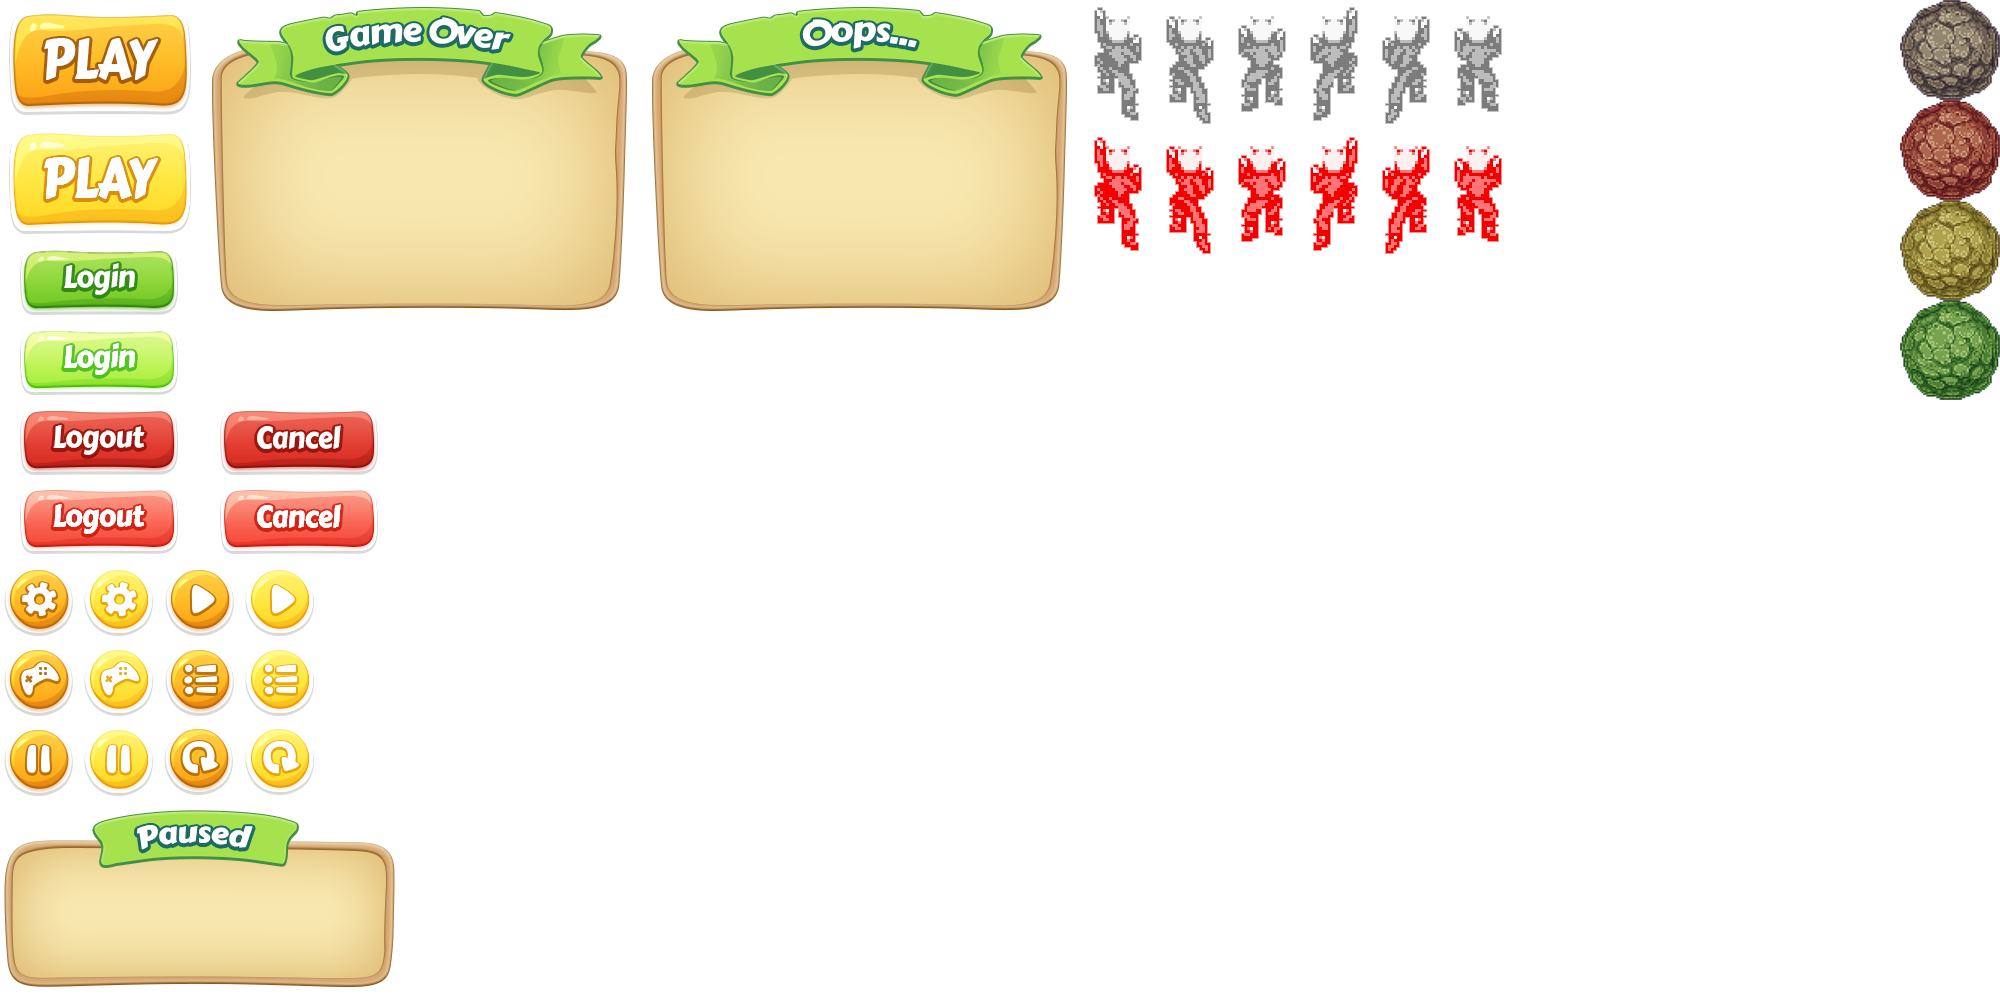
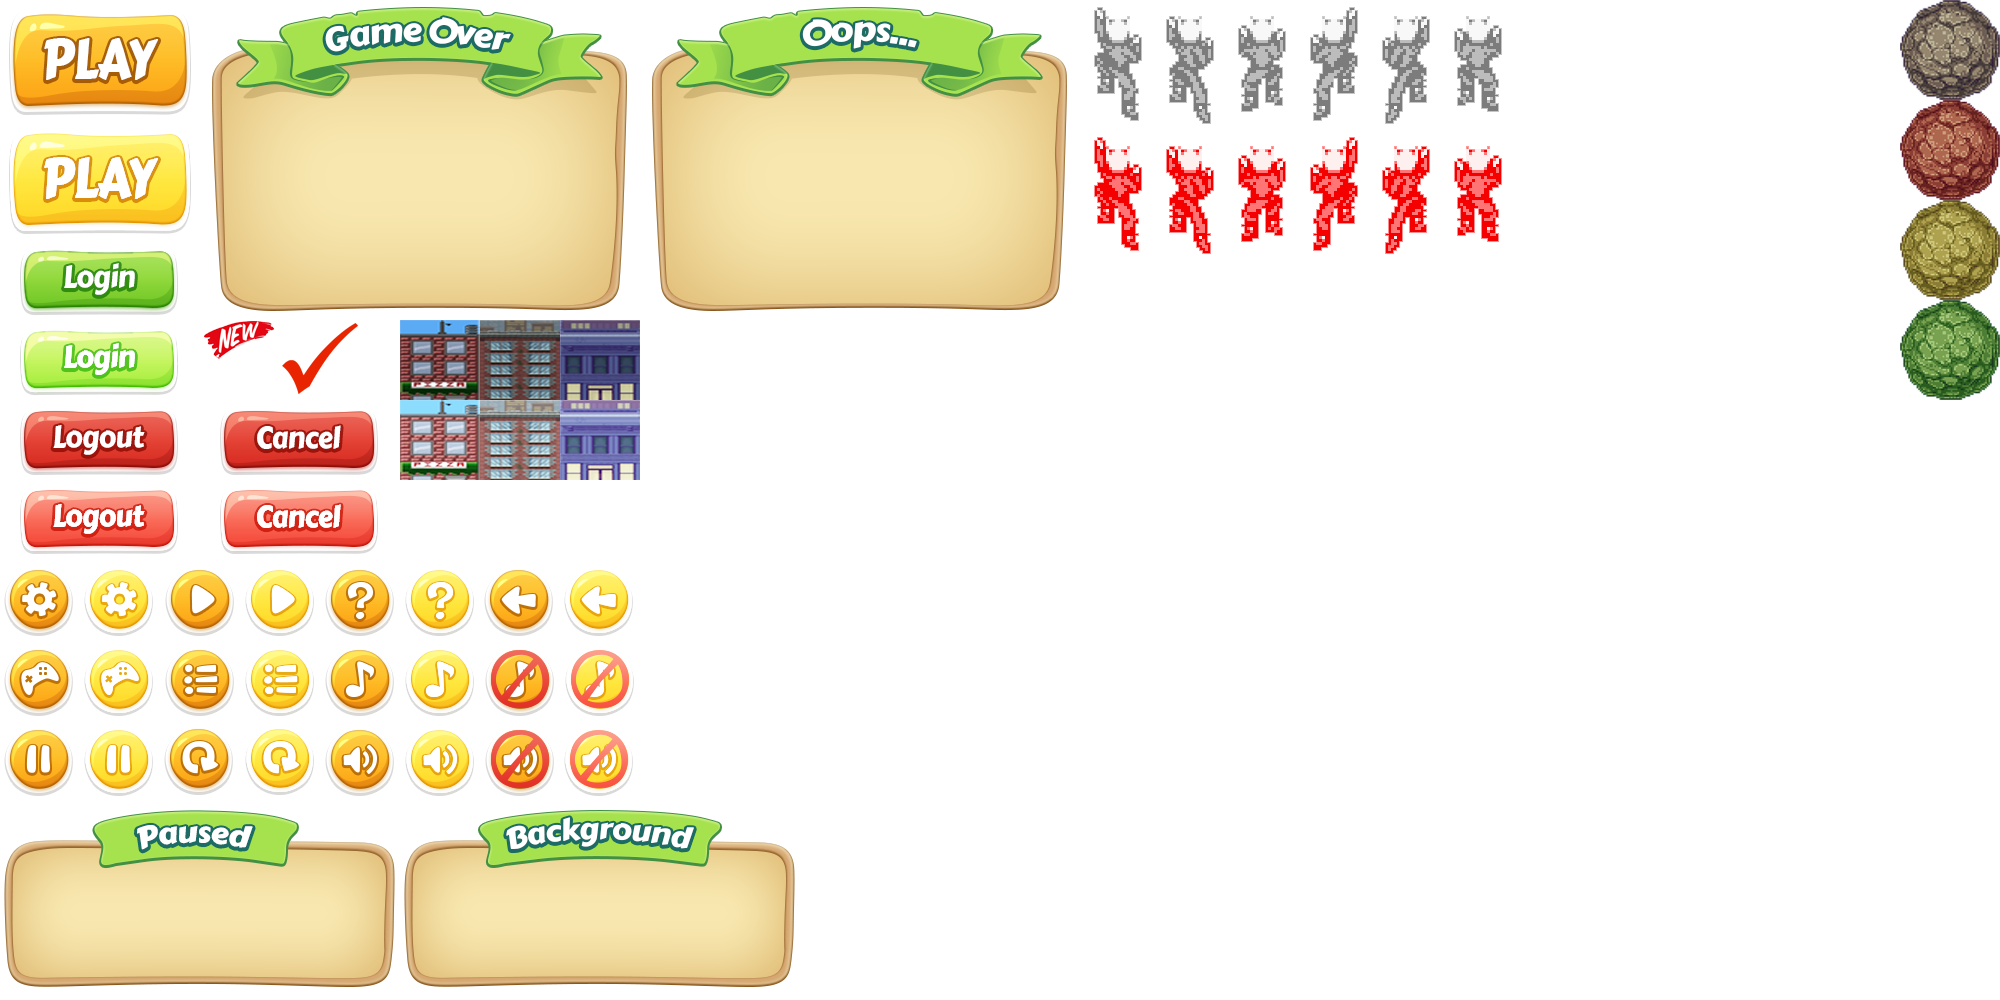
Added a simple settings menu

Changed region(s): [[0.155, 0.558, 0.403, 0.992], [0.093, 0.31, 0.341, 0.496]]

diff --git a/core/src/com/oniz/Screens/StartScreen.java b/core/src/com/oniz/Screens/StartScreen.java
@@ -23,29 +23,34 @@ import com.oniz.UI.SimpleButton;
 
 public class StartScreen implements Screen {
 
+    public static final int BACKGROUND1 = 1;
+    public static final int BACKGROUND2 = 2;
+    public static final int BACKGROUND3 = 3;
+
     public ZGame zGame;
 
     private Stage stage;
     private Skin skin;
-    private TextureRegion cloudsBackground;
+    private TextureRegion cloudsBackground, backgroundMenu, checkMark;
     private SpriteBatch batcher;
     private OrthographicCamera cam;
 
-    private SimpleButton quickGameBtn, loginBtn, logoutBtn, settingsBtn, singlePlayerBtn;
+    private SimpleButton quickGameBtn, loginBtn, logoutBtn, settingsBtn, singlePlayerBtn, backBtn, helpBtn, soundBtn, soundMutedBtn, musicBtn, musicMutedBtn, background1Btn, background2Btn, background3Btn;
+    private boolean backgroundMenuToggle = false;
+    private boolean soundToggle = true;
+    private boolean musicToggle = true;
+    private int backgroundOption = BACKGROUND1;
 
     public StartScreen(final ZGame zGame) {
         this.zGame = zGame;
 
         loadAssets();
         setup();
-
     }
 
     public void setup() {
         //catch back button
         Gdx.input.setCatchBackKey(true);
-
-        stage = new Stage(new FitViewport(450, 800));
 
         // Viewport - Aspect Radio
         cam = new OrthographicCamera();
@@ -53,6 +58,8 @@ public class StartScreen implements Screen {
 
         batcher = new SpriteBatch();
         batcher.setProjectionMatrix(cam.combined);
+
+        stage = new Stage(new FitViewport(450, 800), batcher);
 
         // buttons
         quickGameBtn = new SimpleButton(125, 400, 200, 120, AssetLoader.getInstance().sprites.get("mainPlayBtnUp"), AssetLoader.getInstance().sprites.get("mainPlayBtnDown"));
@@ -83,8 +90,30 @@ public class StartScreen implements Screen {
         settingsBtn.addListener(new ClickListener() {
             @Override
             public void clicked(InputEvent event, float x, float y) {
-                //settings action
-                //sendMessage();
+                // disable startScreen buttons
+                quickGameBtn.setVisible(false);
+                loginBtn.setVisible(false);
+                logoutBtn.setVisible(false);
+                settingsBtn.setVisible(false);
+                helpBtn.setVisible(false);
+                singlePlayerBtn.setVisible(false);
+
+                // enable settingScreen buttons
+                backBtn.setVisible(true);
+                if (soundToggle) {
+                    soundBtn.setVisible(true);
+                } else {
+                    soundMutedBtn.setVisible(true);
+                }
+                if (musicToggle) {
+                    musicBtn.setVisible(true);
+                } else {
+                    musicMutedBtn.setVisible(true);
+                }
+                backgroundMenuToggle = true;
+                background1Btn.setVisible(true);
+                background2Btn.setVisible(true);
+                background3Btn.setVisible(true);
             }
         });
 
@@ -97,11 +126,133 @@ public class StartScreen implements Screen {
             }
         });
 
+        backBtn = new SimpleButton(10, 800-90, 80, 80, AssetLoader.getInstance().sprites.get("backBtnUp"), AssetLoader.getInstance().sprites.get("backBtnDown"));
+        backBtn.addListener(new ClickListener() {
+            @Override
+            public void clicked(InputEvent event, float x, float y) {
+                // disable settingScreen buttons
+                backBtn.setVisible(false);
+                soundBtn.setVisible(false);
+                soundMutedBtn.setVisible(false);
+                musicBtn.setVisible(false);
+                musicMutedBtn.setVisible(false);
+                backgroundMenuToggle = false;
+                background1Btn.setVisible(false);
+                background2Btn.setVisible(false);
+                background3Btn.setVisible(false);
+
+                // enable startScreen buttons
+                quickGameBtn.setVisible(true);
+                if (zGame.playServices.isSignedIn()) {
+                    logoutBtn.setVisible(true);
+                } else {
+                    loginBtn.setVisible(true);
+                }
+                settingsBtn.setVisible(true);
+                helpBtn.setVisible(true);
+                singlePlayerBtn.setVisible(true);
+            }
+        });
+
+        helpBtn = new SimpleButton(100, 10, 80, 80, AssetLoader.getInstance().sprites.get("helpBtnUp"), AssetLoader.getInstance().sprites.get("helpBtnDown"));
+        helpBtn.addListener(new ClickListener() {
+            @Override
+            public void clicked(InputEvent event, float x, float y) {
+                // TODO: help screen
+            }
+        });
+
+        soundBtn = new SimpleButton(135, 10, 80, 80, AssetLoader.getInstance().sprites.get("soundBtnUp"), AssetLoader.getInstance().sprites.get("soundBtnDown"));
+        soundBtn.addListener(new ClickListener() {
+            @Override
+            public void clicked(InputEvent event, float x, float y) {
+                soundToggle = false;
+                soundBtn.setVisible(false);
+                soundMutedBtn.setVisible(true);
+                // TODO: toggle sound
+            }
+        });
+
+        soundMutedBtn = new SimpleButton(135, 10, 80, 80, AssetLoader.getInstance().sprites.get("soundMutedBtnUp"), AssetLoader.getInstance().sprites.get("soundMutedBtnDown"));
+        soundMutedBtn.addListener(new ClickListener() {
+            @Override
+            public void clicked(InputEvent event, float x, float y) {
+                soundToggle = true;
+                soundBtn.setVisible(true);
+                soundMutedBtn.setVisible(false);
+                // TODO: toggle sound
+            }
+        });
+
+        musicBtn = new SimpleButton(235, 10, 80, 80, AssetLoader.getInstance().sprites.get("musicBtnUp"), AssetLoader.getInstance().sprites.get("musicBtnDown"));
+        musicBtn.addListener(new ClickListener() {
+            @Override
+            public void clicked(InputEvent event, float x, float y) {
+                musicToggle = false;
+                musicBtn.setVisible(false);
+                musicMutedBtn.setVisible(true);
+                // TODO: toggle music
+            }
+        });
+
+        musicMutedBtn = new SimpleButton(235, 10, 80, 80, AssetLoader.getInstance().sprites.get("musicMutedBtnUp"), AssetLoader.getInstance().sprites.get("musicMutedBtnDown"));
+        musicMutedBtn.addListener(new ClickListener() {
+            @Override
+            public void clicked(InputEvent event, float x, float y) {
+                musicToggle = true;
+                musicBtn.setVisible(true);
+                musicMutedBtn.setVisible(false);
+                // TODO: toggle music
+            }
+        });
+
+        background1Btn = new SimpleButton(85, 390, 80, 80, AssetLoader.getInstance().sprites.get("background1BtnUp"), AssetLoader.getInstance().sprites.get("background1BtnDown"));
+        background1Btn.addListener(new ClickListener() {
+            @Override
+            public void clicked(InputEvent event, float x, float y) {
+                backgroundOption = BACKGROUND1;
+            }
+        });
+
+        background2Btn = new SimpleButton(185, 390, 80, 80, AssetLoader.getInstance().sprites.get("background2BtnUp"), AssetLoader.getInstance().sprites.get("background2BtnDown"));
+        background2Btn.addListener(new ClickListener() {
+            @Override
+            public void clicked(InputEvent event, float x, float y) {
+                backgroundOption = BACKGROUND2;
+            }
+        });
+
+        background3Btn = new SimpleButton(285, 390, 80, 80, AssetLoader.getInstance().sprites.get("background3BtnUp"), AssetLoader.getInstance().sprites.get("background3BtnDown"));
+        background3Btn.addListener(new ClickListener() {
+            @Override
+            public void clicked(InputEvent event, float x, float y) {
+                backgroundOption = BACKGROUND3;
+            }
+        });
+
         stage.addActor(quickGameBtn);
         stage.addActor(loginBtn);
         stage.addActor(logoutBtn);
         stage.addActor(settingsBtn);
         stage.addActor(singlePlayerBtn);
+        stage.addActor(backBtn);
+        stage.addActor(helpBtn);
+        stage.addActor(soundBtn);
+        stage.addActor(soundMutedBtn);
+        stage.addActor(musicBtn);
+        stage.addActor(musicMutedBtn);
+        stage.addActor(background1Btn);
+        stage.addActor(background2Btn);
+        stage.addActor(background3Btn);
+
+        soundBtn.setVisible(false);
+        soundMutedBtn.setVisible(false);
+        musicBtn.setVisible(false);
+        musicMutedBtn.setVisible(false);
+        backBtn.setVisible(false);
+        background1Btn.setVisible(false);
+        background2Btn.setVisible(false);
+        background3Btn.setVisible(false);
 
         // show "login" button when not signed in; show "logout" button when signed in
         if (zGame.playServices.isSignedIn()) {
@@ -121,6 +272,8 @@ public class StartScreen implements Screen {
         AssetLoader.getInstance();
         skin = AssetLoader.getInstance().skin;
         cloudsBackground =  AssetLoader.getInstance().sprites.get("cloudsBackground");
+        backgroundMenu = AssetLoader.getInstance().sprites.get("backgroundMenu");
+        checkMark = AssetLoader.getInstance().sprites.get("checkMark");
     }
 
     // Google Services Methods
@@ -168,7 +321,23 @@ public class StartScreen implements Screen {
         batcher.draw(cloudsBackground, 0, 0, 450, 800);
 
         batcher.enableBlending();
+        if (backgroundMenuToggle) {
+            batcher.draw(backgroundMenu, 25, 350, 400, 200);
+        }
+        batcher.end();
+
         stage.draw();
+
+        batcher.begin();
+        if (backgroundMenuToggle) {
+            if (backgroundOption == BACKGROUND1) {
+                batcher.draw(checkMark, 75, 440, 40, 40);
+            } else if (backgroundOption == BACKGROUND2) {
+                batcher.draw(checkMark, 175, 440, 40, 40);
+            } else if (backgroundOption == BACKGROUND3) {
+                batcher.draw(checkMark, 275, 440, 40, 40);
+            }
+        }
         batcher.end();
     }
 
@@ -196,5 +365,9 @@ public class StartScreen implements Screen {
     public void dispose() {
         AssetLoader.getInstance().dispose();
         Gdx.app.log("LIFECYCLE", "DISPOSE");
+    }
+
+    public int getBackgroundOption() {
+        return backgroundOption;
     }
 }

diff --git a/core/src/com/oniz/Game/AssetLoader.java b/core/src/com/oniz/Game/AssetLoader.java
@@ -9,8 +9,6 @@ import com.badlogic.gdx.graphics.g2d.BitmapFont;
 import com.badlogic.gdx.graphics.g2d.TextureRegion;
 import com.badlogic.gdx.scenes.scene2d.ui.Skin;
 import com.oniz.Mobs.GestureRock;
-
-import java.util.ArrayList;
 import java.util.Hashtable;
 
 /**
@@ -95,8 +93,30 @@ public final class AssetLoader {
         sprites.put("menuBtnDown", new TextureRegion(textures.get("menuTexture"), 240, 640, 80, 80));
         sprites.put("restartBtnUp", new TextureRegion(textures.get("menuTexture"), 160, 720, 80, 80));
         sprites.put("restartBtnDown", new TextureRegion(textures.get("menuTexture"), 240, 720, 80, 80));
+        sprites.put("helpBtnUp", new TextureRegion(textures.get("menuTexture"), 320, 560, 80, 80));
+        sprites.put("helpBtnDown", new TextureRegion(textures.get("menuTexture"), 400, 560, 80, 80));
+        sprites.put("musicBtnUp", new TextureRegion(textures.get("menuTexture"), 320, 640, 80, 80));
+        sprites.put("musicBtnDown", new TextureRegion(textures.get("menuTexture"), 400, 640, 80, 80));
+        sprites.put("soundBtnUp", new TextureRegion(textures.get("menuTexture"), 320, 720, 80, 80));
+        sprites.put("soundBtnDown", new TextureRegion(textures.get("menuTexture"), 400, 720, 80, 80));
+        sprites.put("backBtnUp", new TextureRegion(textures.get("menuTexture"), 480, 560, 80, 80));
+        sprites.put("backBtnDown", new TextureRegion(textures.get("menuTexture"), 560, 560, 80, 80));
+        sprites.put("musicMutedBtnUp", new TextureRegion(textures.get("menuTexture"), 480, 640, 80, 80));
+        sprites.put("musicMutedBtnDown", new TextureRegion(textures.get("menuTexture"), 560, 640, 80, 80));
+        sprites.put("soundMutedBtnUp", new TextureRegion(textures.get("menuTexture"), 480, 720, 80, 80));
+        sprites.put("soundMutedBtnDown", new TextureRegion(textures.get("menuTexture"), 560, 720, 80, 80));
+        sprites.put("newMark", new TextureRegion(textures.get("menuTexture"), 200, 320, 80, 40));
+        sprites.put("checkMark", new TextureRegion(textures.get("menuTexture"), 280, 320, 80, 80));
+        sprites.put("background1BtnUp", new TextureRegion(textures.get("menuTexture"), 400, 320, 80, 80));
+        sprites.put("background1BtnDown", new TextureRegion(textures.get("menuTexture"), 400, 400, 80, 80));
+        sprites.put("background2BtnUp", new TextureRegion(textures.get("menuTexture"), 480, 320, 80, 80));
+        sprites.put("background2BtnDown", new TextureRegion(textures.get("menuTexture"), 480, 400, 80, 80));
+        sprites.put("background3BtnUp", new TextureRegion(textures.get("menuTexture"), 560, 320, 80, 80));
+        sprites.put("background3BtnDown", new TextureRegion(textures.get("menuTexture"), 560, 400, 80, 80));
         sprites.put("pauseMenu", new TextureRegion(textures.get("menuTexture"), 0, 800, 400, 200));
+        sprites.put("backgroundMenu", new TextureRegion(textures.get("menuTexture"), 400, 800, 400, 200));
         sprites.put("gameOverMenu", new TextureRegion(textures.get("menuTexture"), 200, 0, 440, 320));
+        sprites.put("oopsMenu", new TextureRegion(textures.get("menuTexture"), 640, 0, 440, 320));
 
         // gesture stages
         sprites.put("brownRock", new TextureRegion(textures.get("menuTexture"), 1900, 0, 100, 100));
@@ -129,25 +149,6 @@ public final class AssetLoader {
         gestureHints.put(GestureRock.GestureType.INVERTED_Z_SHAPE, sprites.get("invertedZshape"));
         gestureHints.put(GestureRock.GestureType.GAMMA, sprites.get("gamma"));
         gestureHints.put(GestureRock.GestureType.SIGMA, sprites.get("sigma"));
-
-
-        // play, pause, restart buttons (obsolete)
-        textures.put("pauseUp", new Texture(Gdx.files.internal("lineLight/lineLight12.png")));
-        textures.put("pauseDown", new Texture(Gdx.files.internal("shadedDark/shadedDark14.png")));
-        textures.put("playUp", new Texture(Gdx.files.internal("lineLight/lineLight14.png")));
-        textures.put("playDown", new Texture(Gdx.files.internal("shadedDark/shadedDark16.png")));
-        textures.put("restartUp", new Texture(Gdx.files.internal("lineLight/lineLight10.png")));
-        textures.put("restartDown", new Texture(Gdx.files.internal("shadedDark/shadedDark12.png")));
-
-        // temporary buttons: A, B, X, Y
-        textures.put("buttonAUp", new Texture(Gdx.files.internal("lineLight/lineLight34.png")));
-        textures.put("buttonADown", new Texture(Gdx.files.internal("shadedDark/shadedDark36.png")));
-        textures.put("buttonBUp", new Texture(Gdx.files.internal("lineLight/lineLight35.png")));
-        textures.put("buttonBDown", new Texture(Gdx.files.internal("shadedDark/shadedDark37.png")));
-        textures.put("buttonXUp", new Texture(Gdx.files.internal("lineLight/lineLight36.png")));
-        textures.put("buttonXDown", new Texture(Gdx.files.internal("shadedDark/shadedDark38.png")));
-        textures.put("buttonYUp", new Texture(Gdx.files.internal("lineLight/lineLight37.png")));
-        textures.put("buttonYDown", new Texture(Gdx.files.internal("shadedDark/shadedDark39.png")));
 
         // sprites of zombie climbing
         sprites.put("zombieClimb1", new TextureRegion(textures.get("menuTexture"), 1087, 0, 60, 130));
@@ -230,9 +231,9 @@ public final class AssetLoader {
 
         // background
         textures.put("backgrounds", new Texture(Gdx.files.internal("data/backgrounds.png")));
-        sprites.put("pizzaBuilding", new TextureRegion(textures.get("backgrounds"), 0, 0, 450, 800));
-        sprites.put("tallBuilding", new TextureRegion(textures.get("backgrounds"), 450, 0, 450, 800));
-        sprites.put("nightBuilding", new TextureRegion(textures.get("backgrounds"), 900, 0, 450, 800));
+        sprites.put("background1", new TextureRegion(textures.get("backgrounds"), 0, 0, 450, 800));
+        sprites.put("background2", new TextureRegion(textures.get("backgrounds"), 450, 0, 450, 800));
+        sprites.put("background3", new TextureRegion(textures.get("backgrounds"), 900, 0, 450, 800));
         sprites.put("cloudsBackground", new TextureRegion(textures.get("backgrounds"), 1350, 0, 450, 800));
         sprites.put("backgroundTint", new TextureRegion(textures.get("backgrounds"), 1800, 0, 450, 800));
 

diff --git a/core/src/com/oniz/Screens/MatchMakingScreen.java b/core/src/com/oniz/Screens/MatchMakingScreen.java
@@ -64,7 +64,7 @@ public class MatchMakingScreen implements Screen{
         batcher = new SpriteBatch();
         batcher.setProjectionMatrix(cam.combined);
 
-        cancelBtn = new SimpleButton(125, 280, 200, 80, AssetLoader.getInstance().sprites.get("logoutBtnUp"), AssetLoader.getInstance().sprites.get("logoutBtnDown"));
+        cancelBtn = new SimpleButton(125, 250, 200, 80, AssetLoader.getInstance().sprites.get("logoutBtnUp"), AssetLoader.getInstance().sprites.get("logoutBtnDown"));
         cancelBtn.addListener(new ClickListener() {
             @Override
             public void clicked(InputEvent event, float x, float y) {

diff --git a/core/src/com/oniz/Game/GameRenderer.java b/core/src/com/oniz/Game/GameRenderer.java
@@ -125,7 +125,7 @@ public class GameRenderer {
     }
 
     private void initAssets() {
-        background = AssetLoader.getInstance().sprites.get("pizzaBuilding");
+        background = AssetLoader.getInstance().sprites.get("background1");
         backgroundTint = AssetLoader.getInstance().sprites.get("backgroundTint");
         zombieClimbingAnimation = AssetLoader.getInstance().zombieClimbingAnimation;
         enemyZombieClimbingAnimation = AssetLoader.getInstance().enemyZombieClimbingAnimation;
